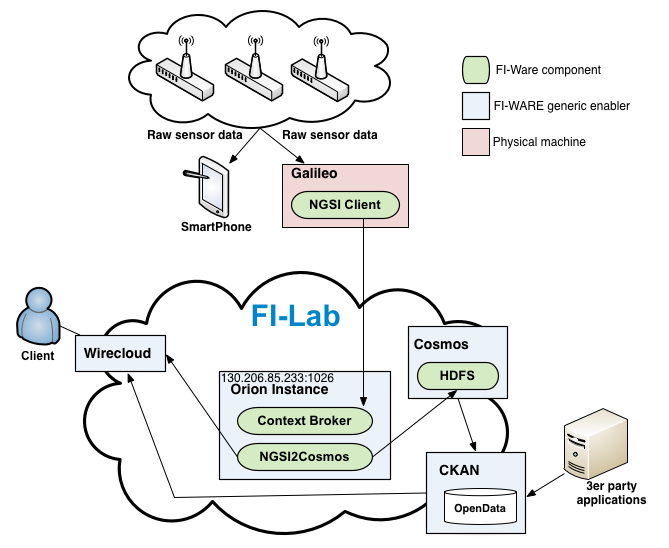
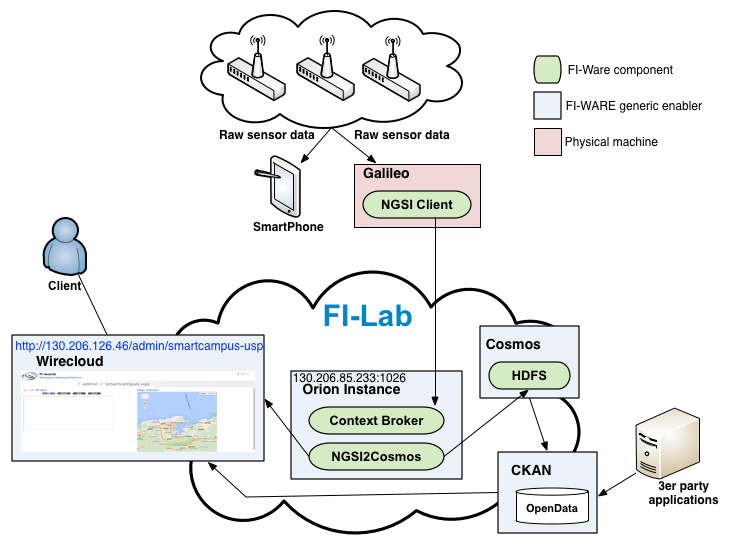
Updated info

diff --git a/README.md b/README.md
@@ -2,7 +2,7 @@ Smart Campus SP
 ===============
 
 # Overview
-SmartCampus is a [FI-Ware](http://edu.fi-ware.eu/course/index.php) software prototype to measure the contamination levels in the USP (Universidade de São Paulo) Campus with a group of sensors controlled with Arduino(?)/Galileo(?). Below you can find a diagram of all the system components and a brief explanation of their functions. The following sections will detail how the components were connected and all the software and hardware installed, bottom-up.
+SmartCampus is a [FI-Ware](http://edu.fi-ware.eu/course/index.php) software prototype to measure the contamination levels in the USP (Universidade de São Paulo) Campus with a group of Arduino and Galileo sensors. It can be accessed at http://130.206.126.46/admin/smartcampus-usp. Below you can find a diagram of all the system components and a brief explanation of their functions. The following sections will detail how the components were connected and all the software and hardware installed.
 
 ![FI-Beer overview](img/overview.png)
 
@@ -15,28 +15,28 @@ SmartCampus makes use of several FI-Ware building blocks, all of them deployed i
 
 ## Polution sensors instrumentation and hardware connection
 
-In the first iteration of the prototype, the system will only manage one magnitude of the polution metrics: the temperature. ..................
+In the first iteration of the prototype, the system will only manage one magnitude of the polution metrics: temperature, pressure, noise and air particles.
 
 ## Linux and NGSI Client
 
-All the sensor reading is done in a Python script that reads the sensor data from the Arduino?/ and sends it to the Context Broker using the [NGSI Protocol](http://forge.fi-ware.eu/plugins/mediawiki/wiki/fiware/index.php/OMA_NGSI_10). The Python-to-Arduino connection is created using [Nanpy](https://github.com/nanpy).
+All the sensor reading is done in a Python script that reads the sensor data from the Arduino and Galileo sensors and sends it to the Context Broker using the [NGSI Protocol](http://forge.fi-ware.eu/plugins/mediawiki/wiki/fiware/index.php/OMA_NGSI_10).
 
 #### Developing the NGSI Client
 
-The Context Broker, where the measures will be aggregated and distributed, listens for requests following the [NGSI protocol](http://technical.openmobilealliance.org/Technical/release_program/NGSI_v1_0.aspx). In order to communicate with this component, a two NGSI clients were developed (python and java). The NGSI protocol defines several resources and operations, but the client only use a very restricted set:
+The Context Broker, where the measures will be aggregated and distributed, listens for requests following the [NGSI protocol](http://technical.openmobilealliance.org/Technical/release_program/NGSI_v1_0.aspx). In order to communicate with this component, two NGSI clients were developed (python and java). The NGSI protocol defines several resources and operations, but the client only use a very restricted set:
 
-* Appending a new measure for a context. 
-* Getting measures for a particular context (not currently in use in the prototype but expected).
+* Appending a new measure for a context
+* Getting measures for a particular context
 
-The NGSI protocol is a REST protocol that accepts both XML and JSON payloads. In this case, all the communications were stablished using the `requests` HTTP library with JSON payloads (using the default `json` python library).
+The NGSI protocol is a REST protocol that accepts both XML and JSON payloads. JSON was prefered for this project.
 
 ##### Python version
 
-Intented to be used with Arduino(?)/Galileo(?).
+Intented to be used with Arduino and Galileo sensors. All the communications were stablished using the `requests` HTTP library with JSON payloads (the default `json` python library).
 
 ##### Java version
 
-Intended to be used with Android OS.
+Intended to be used with Android OS. For the Java version, the [Jersey API](https://jersey.java.net/) was used.
 
 ## The Context Broker
 
